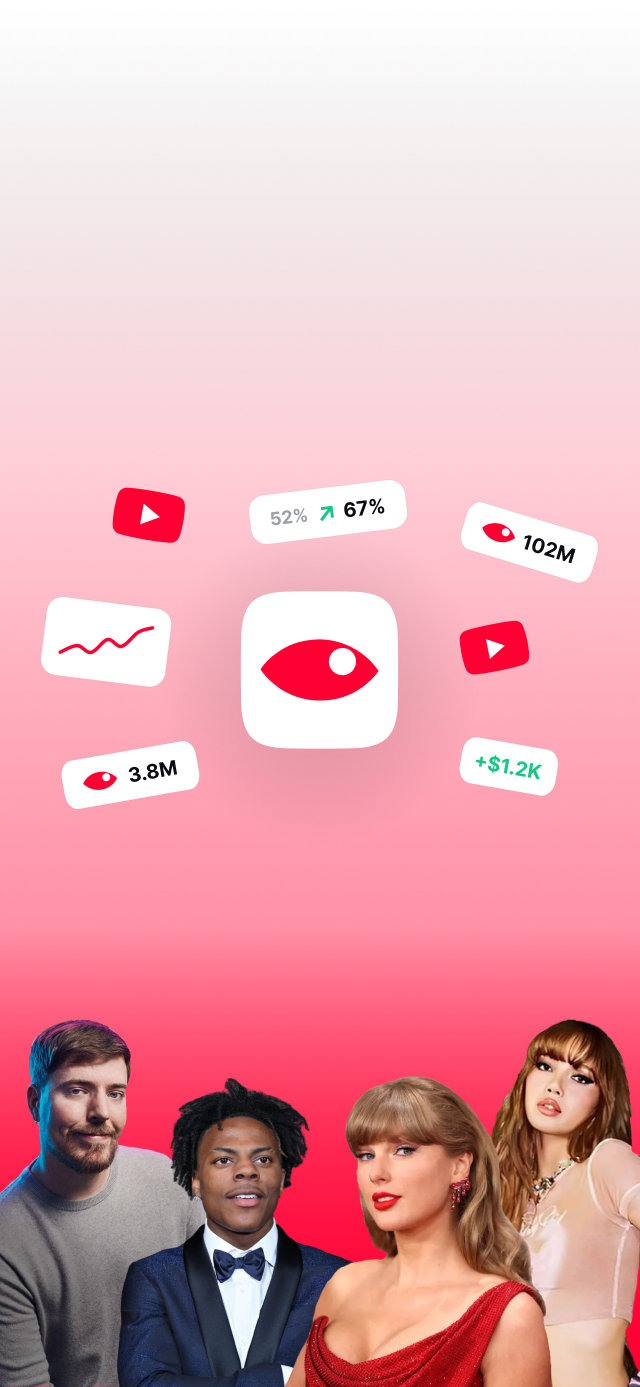
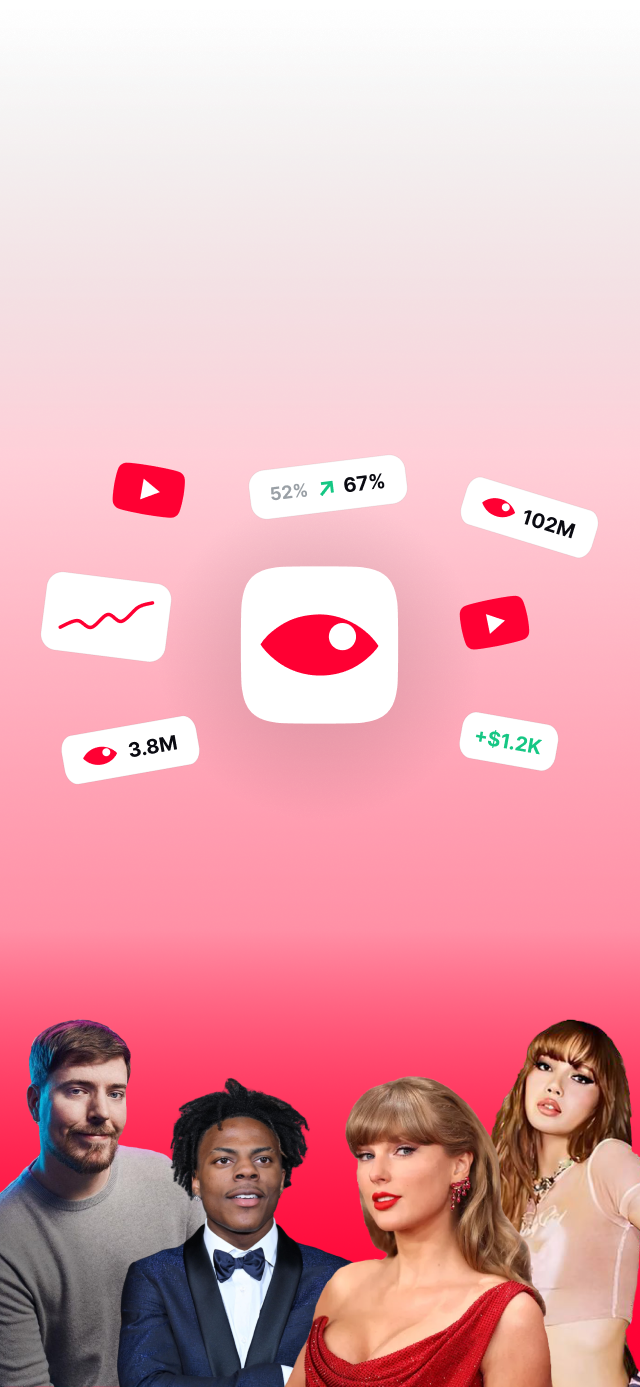
update

Changed region(s): [[0.375, 0.31, 0.6562, 0.558], [0.0625, 0.31, 0.3125, 0.589], [0.7188, 0.341, 0.9375, 0.589]]

diff --git a/index.html b/index.html
@@ -410,6 +410,11 @@
   // store per-column computed lockup geometry
   const lockGeo = {};
 
+  // MOBILE per-column icon-plate center Y (in the 640x1387 portrait banner).
+  // Each banner raises the plate by a different amount, so the lockup must spawn
+  // at the matching height per column. Text boxes/CTA are bottom-anchored and do
+  // not move. (RoamFi unchanged; VC + TX raised.)
+  const MOB_ICY = { 'col--vc':644, 'col--rf':669, 'col--tx':619 };
 
   function fitFrames(){
     const mob = isMobile();
@@ -420,6 +425,8 @@
       const frame = col.querySelector('.frame');
       const icon  = col.querySelector('.appicon');
       const cw = col.clientWidth, ch = col.clientHeight;
+      // resolve this column's icon-center Y in source coords (per-column on mobile)
+      const srcIcy = mob ? (MOB_ICY[lockKey(col)] || SRC.icy) : SRC.icy;
 
       let frameLeft, frameTop, sc;
       if(mob){
@@ -434,7 +441,7 @@
         frameTop  = ch - SRC.h*sc;
       }
       const ix = frameLeft + SRC.icx*sc;       // icon center x within column
-      const iy = frameTop  + SRC.icy*sc;       // icon center y within column
+      const iy = frameTop  + srcIcy*sc;        // icon center y within column
       const isz = SRC.isz*sc;
       icon.style.left   = ix + 'px';
       icon.style.top    = iy + 'px';
@@ -471,19 +478,26 @@
         const word = col.querySelector('.lockup-word');
         if(eye && word){
           const G = lockGeo[key];
-          eye.style.width  = G.finalIconW + 'px';
-          eye.style.height = G.finalIconH + 'px';
-          eye.style.left = (G.finalIconCx - G.finalIconW/2) + 'px';
-          eye.style.top  = (G.finalIconCy - G.finalIconH/2) + 'px';
+          // While the spawn->lockup animation is in flight, DON'T rewrite the eye's
+          // geometry or transform — doing so (e.g. on the URL-bar viewport resize
+          // that fires right after a tap) would snap it to final and kill the
+          // animation. Word slot is safe to keep in sync. We re-apply after.
+          const animating = col.dataset.lockState === 'animating';
           word.style.left = G.wordLeft + 'px';
           word.style.top  = G.wordTop + 'px';
           word.style.width = G.wordW + 'px';
           word.style.height = G.wordH + 'px';
-          if(col.classList.contains('active')){
-            eye.style.transition = 'none';
-            eye.style.transform = 'translate(0,0) scale(1)';
-          } else {
-            setEyeSpawn(col);
+          if(!animating){
+            eye.style.width  = G.finalIconW + 'px';
+            eye.style.height = G.finalIconH + 'px';
+            eye.style.left = (G.finalIconCx - G.finalIconW/2) + 'px';
+            eye.style.top  = (G.finalIconCy - G.finalIconH/2) + 'px';
+            if(col.classList.contains('active') && col.dataset.lockState === 'lockup'){
+              eye.style.transition = 'none';
+              eye.style.transform = 'translate(0,0) scale(1)';
+            } else if(!col.classList.contains('active')){
+              setEyeSpawn(col);
+            }
           }
         }
       }
@@ -505,10 +519,10 @@
       // reset any prior scaling so we measure the true natural height
       panel.style.transform = 'none';
       panel.style.removeProperty('--panel-fs');
-      // Use a SHARED reference (ViewsCall geometry) so the text box + CTA land at
-      // the exact same height in every column. All lockups are vertically centered
-      // at the same plate-center line, so we reference VC's lockup bottom for all.
-      const refG = lockGeo['col--vc'] || lockGeo[key];
+      // On desktop all lockups sit on the same plate-center line, so a shared VC
+      // reference keeps boxes aligned. On mobile each banner raises its plate by a
+      // different amount, so use THIS column's own lockup bottom for the gap calc.
+      const refG = mob ? lockGeo[key] : (lockGeo['col--vc'] || lockGeo[key]);
       const lockupBottom = refG.finalIconCy + refG.finalIconH/2;
       // reserve a gap below the lockup so the box never crowds it (smaller on mobile)
       const gap = mob ? 14 : 48;
@@ -560,19 +574,39 @@
     if(!eye || !key || !lockGeo[key]) return;
     const G = lockGeo[key];
     const dx = G.spawnCx - G.finalIconCx;
-    const dy = G.spawnCy - G.finalIconCy;     // 0 (same height)
+    const dy = G.spawnCy - G.finalIconCy;     // may be 0
     const s  = G.spawnIconW / G.finalIconW;   // scale up to spawn size
     eye.style.transition = 'none';
     eye.style.transform = `translate(${dx}px,${dy}px) scale(${s})`;
+    col.dataset.lockState = 'spawn';
   }
-  // animate the eye from spawn -> final lockup slot
+  // animate the eye from spawn -> final lockup slot. Robust against the mobile
+  // URL-bar viewport resize that can fire mid-tap: we mark 'animating' so
+  // fitFrames won't snap the eye, force a reflow to commit the spawn 'from'
+  // state, then start the transition. onfinish clears the guard.
   function setEyeLockup(col){
     const eye = col.querySelector('.lockup-eye');
     if(!eye) return;
-    // force reflow so the 'none' transition above is committed before animating
+    col.dataset.lockState = 'animating';
+    // commit the spawn transform as the animation's starting point
+    eye.style.transition = 'none';
     void eye.offsetWidth;
-    eye.style.transition = 'transform 480ms cubic-bezier(.5,.02,.2,1)';
-    eye.style.transform = 'translate(0,0) scale(1)';
+    // start the transition on the NEXT frame so the 'from' state is painted first
+    requestAnimationFrame(()=>{
+      if(col.dataset.lockState !== 'animating') return;  // deactivated meanwhile
+      eye.style.transition = 'transform 480ms cubic-bezier(.5,.02,.2,1)';
+      eye.style.transform = 'translate(0,0) scale(1)';
+    });
+    // clear the guard when the move completes (fallback timer in case the
+    // transitionend doesn't fire, e.g. interrupted)
+    const done = (e)=>{
+      if(e && e.propertyName && e.propertyName !== 'transform') return;
+      if(col.dataset.lockState === 'animating') col.dataset.lockState = 'lockup';
+      eye.removeEventListener('transitionend', done);
+    };
+    eye.addEventListener('transitionend', done);
+    clearTimeout(col._lockTimer);
+    col._lockTimer = setTimeout(done, 620);
   }
 
   // word: fully clipped + hidden, no transition (instant reset on deactivate)
@@ -669,9 +703,14 @@
     }
     // any lockup column: icon sits at SPAWN (over the plate); animate into lockup
     if(lockKey(col)){
-      setEyeSpawn(col);        // ensure starting point is exact
+      setEyeSpawn(col);        // ensure starting point is exact (lockState='spawn')
       setWordHidden(col);      // word starts fully clipped
-      requestAnimationFrame(()=>{ setEyeLockup(col); setWordReveal(col); });
+      // wait one frame so the spawn transform is painted, THEN kick the animation
+      // (setEyeLockup adds its own rAF, giving a reliable from->to transition).
+      requestAnimationFrame(()=>{
+        if(activeCol !== col) return;   // bailed out already
+        setEyeLockup(col); setWordReveal(col);
+      });
       // adaptive text-panel scaling (does NOT touch the icon, so animation is safe)
       requestAnimationFrame(()=>{ scalePanel(col); });
       // position the icon after the panel's entry transition settles (so the
@@ -690,7 +729,8 @@
       c.classList.remove('active'); c.classList.remove('playing');
       const v = c.querySelector('.vid'); if(v){ try{ v.pause(); }catch(e){} }
       if(lockKey(c)){
-        setEyeSpawn(c);          // reset icon to spawn
+        clearTimeout(c._lockTimer);   // cancel any pending animation-guard release
+        setEyeSpawn(c);          // reset icon to spawn (lockState='spawn')
         setWordHidden(c);        // reset word to fully clipped (no flash)
       }
       // force the no-transition state to commit (reflow) BEFORE restoring transitions,